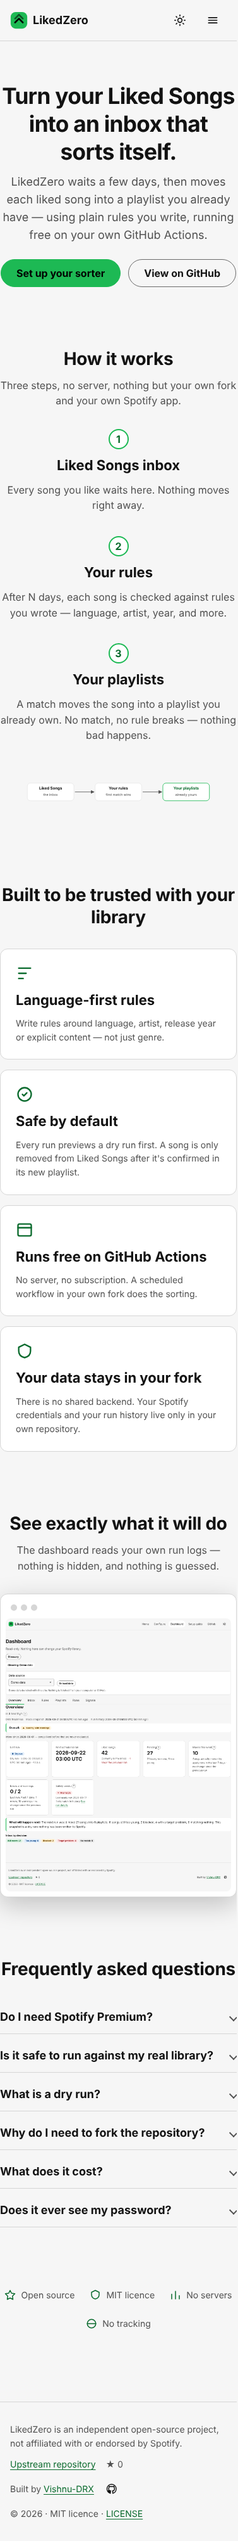
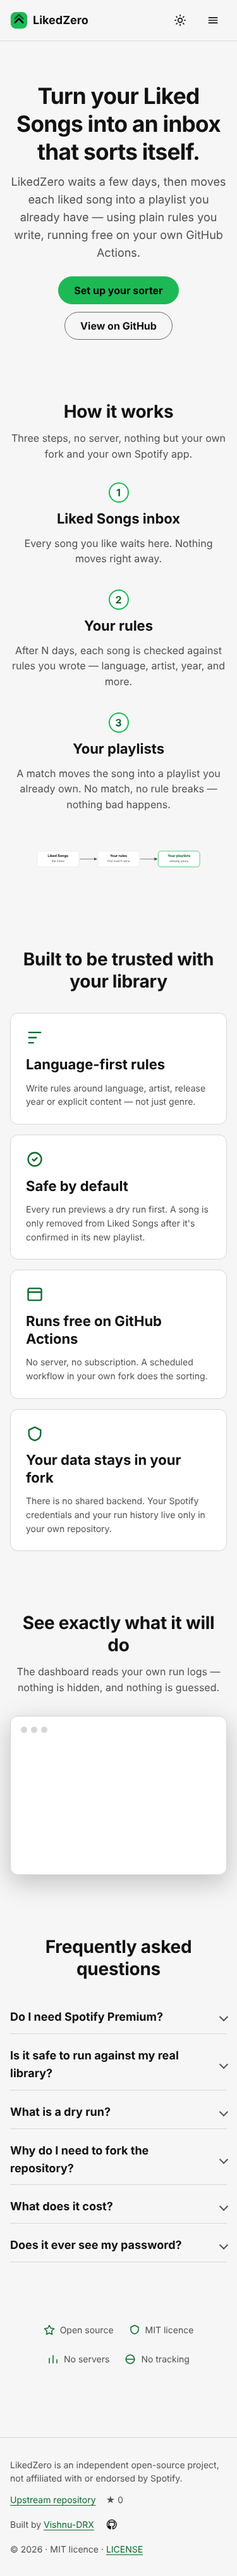
Fix clipped Setup guide and edge-to-edge Home text on phones
Setup step cards grew to their code blocks' width (grid 1fr = min-content) and body overflow-x: clip hid the
overflow. .section/.hero padding shorthand zeroed the container's side gutters, so the FAQ touched the screen
edge. Use minmax(0, 1fr), wrap code on phones, pad block-only, and add an e2e check that measures real boxes.

Claude-Session: https://claude.ai/code/session_015FptCFJ6vCY2WqNvsxQPcr

diff --git a/docs/assets/site.css b/docs/assets/site.css
@@ -42,14 +42,14 @@
 .site-footer-copy { margin: 0; }
 
 /* ------------------------------------------------------------ hero */
-.hero { padding: var(--space-8) 0 var(--space-7); text-align: center; }
+.hero { padding-block: var(--space-8) var(--space-7); text-align: center; }
 .hero-inner { max-width: 44rem; margin: 0 auto; }
 .hero h1 { font-size: clamp(2.2rem, 6vw, var(--text-3xl)); }
 .hero-sub { font-size: var(--text-lg); color: var(--color-text-secondary); margin: 0 0 var(--space-5); }
 .hero-cta { display: flex; flex-wrap: wrap; justify-content: center; gap: var(--space-3); }
 
 /* ------------------------------------------------------------ generic page sections */
-.section { padding: var(--space-7) 0; }
+.section { padding-block: var(--space-7); } /* block only: .section.container must keep its side gutters */
 .section-head { max-width: 40rem; margin: 0 auto var(--space-6); text-align: center; }
 .section-head p { color: var(--color-text-secondary); margin: 0; }
 
@@ -79,12 +79,13 @@
 
 /* setup guide */
 .setup-steps { display: flex; flex-direction: column; gap: var(--space-5); counter-reset: step; }
-.setup-step { display: grid; grid-template-columns: 40px 1fr; gap: var(--space-4); }
+.setup-step { display: grid; grid-template-columns: 40px minmax(0, 1fr); gap: var(--space-4); }
+.setup-step > .card { min-width: 0; }
 .setup-step-num { counter-increment: step; display: inline-grid; place-content: center; width: 40px; height: 40px; border-radius: 50%; background: var(--color-elevated); border: 2px solid var(--color-accent); color: var(--color-accent-text); font-weight: var(--weight-bold); }
 .setup-step-num::before { content: counter(step); }
 .setup-check { display: flex; gap: var(--space-2); align-items: flex-start; }
 .setup-check .icon { color: var(--color-accent-text); flex: none; margin-top: 2px; }
-@media (max-width: 560px) { .setup-step { grid-template-columns: 1fr; } .setup-step-num { display: none; } }
+@media (max-width: 560px) { .code pre { white-space: pre-wrap; overflow-wrap: anywhere; } .setup-step { grid-template-columns: minmax(0, 1fr); } .setup-step > .card { padding: var(--space-4); } .setup-step-num { display: none; } }
 
 /* 404 */
 .notfound { text-align: center; padding: var(--space-8) 0; }

diff --git a/tests/e2e/test_site.py b/tests/e2e/test_site.py
@@ -116,6 +116,33 @@ def test_page_loads_cleanly(site_page, site, page_name, path, width):
     assert not errors, f"{page_name}: {errors}"
 
 
+# `body { overflow-x: clip }` hides sideways overflow from scrollWidth, so the check above can pass while content is
+# cut off. Measure the actual boxes instead, at real phone widths.
+@pytest.mark.parametrize("page_name,path", [("home", "index.html"), ("setup", "setup/")])
+@pytest.mark.parametrize("width", [360, 390, 430])
+def test_mobile_content_not_clipped_and_has_gutters(site_page, site, page_name, path, width):
+    page, _ = site_page(width=width, height=900)
+    page.goto(site + path)
+    page.wait_for_load_state("networkidle")
+    page.evaluate("document.querySelectorAll('details').forEach(d => d.open = true)")
+    bad = page.evaluate("""() => {
+        const vw = document.documentElement.clientWidth, out = [];
+        document.querySelectorAll('main *').forEach(e => {
+            if (e.closest('svg') || getComputedStyle(e).position === 'fixed') return;
+            const r = e.getBoundingClientRect();
+            if (r.width && (r.right > vw + 1 || r.left < -1)) out.push(e.tagName + '.' + e.className + ' ' + Math.round(r.left) + '..' + Math.round(r.right));
+        });
+        return out;
+    }""")
+    assert not bad, f"{page_name} at {width}px: boxes outside the viewport: {bad[:5]}"
+    # prose must not touch the screen edge (FAQ answers / step cards keep a gutter)
+    edge = page.evaluate("""() => [...document.querySelectorAll('main p, main summary, main h1, main h2')]
+        .filter(e => e.getBoundingClientRect().width)
+        .map(e => Math.min(e.getBoundingClientRect().left, document.documentElement.clientWidth - e.getBoundingClientRect().right))
+        .reduce((m, v) => Math.min(m, v), 999)""")
+    assert edge >= 12, f"{page_name} at {width}px: text only {edge}px from the screen edge"
+
+
 def test_pages_load_across_available_browsers(available_browsers, site):
     def check(name, browser):
         ctx = browser.new_context(viewport={"width": 1280, "height": 900})

diff --git a/tests/e2e/conftest.py b/tests/e2e/conftest.py
@@ -150,7 +150,8 @@ def builder(make_page, site):
 def _launch_one(pw, name):
     """Try to launch one browser family, returning None (never raising) if it isn't available."""
     if name == "chromium":
-        for kwargs in ({}, {"channel": "msedge"}, {"channel": "chrome"}):
+        local = [{"executable_path": os.environ["LIKEDZERO_CHROMIUM"]}] if os.environ.get("LIKEDZERO_CHROMIUM") else []
+        for kwargs in (*local, {}, {"channel": "msedge"}, {"channel": "chrome"}):
             try:
                 return pw.chromium.launch(**kwargs)
             except Exception:  # noqa: BLE001
